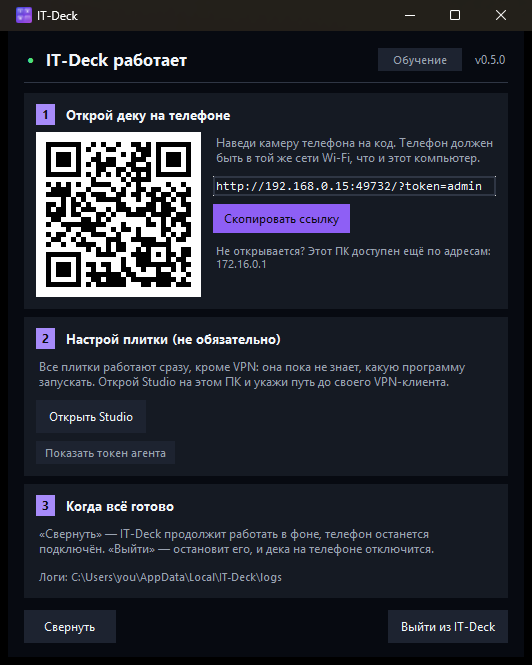
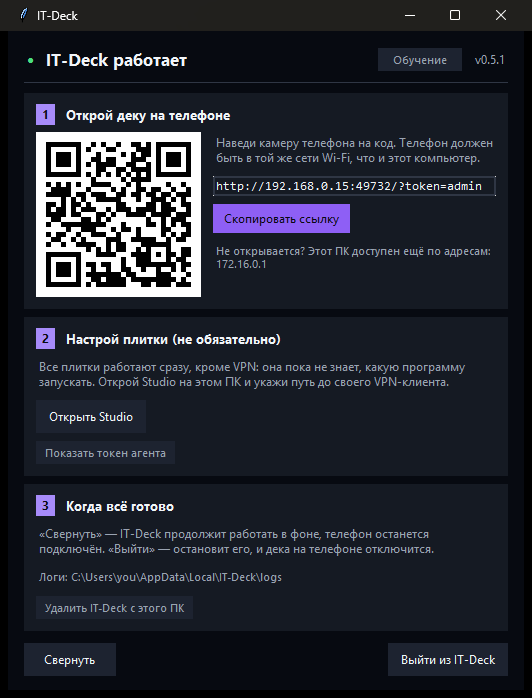
release: v0.5.1 -- tile state survives redraws; README brought up to date
- README (EN/RU): status and exe size, Close Agent's new way back, Studio's
  installed-programs picker and Where control, first-run tour, two new
  troubleshooting rows, tests in the docs table.
- Screenshots: Studio with the quick-launch bar, the window with Tutorial
  and the remove button.
- Tech reference: CI now runs tests; tech-debt item 10 narrowed.

diff --git a/standalone/launcher.py b/standalone/launcher.py
@@ -34,7 +34,7 @@ REPO_ROOT = Path(__file__).resolve().parent.parent
 # it was -- no version in the UI, nothing to compare against for an
 # update check, and nothing to put in a bug report. Bump it in the same commit
 # as the tag, and keep it equal to the tag minus the leading "v".
-ITDECK_VERSION = "0.5.0"
+ITDECK_VERSION = "0.5.1"
 
 # Where an installed copy looks to find out it is out of date, and where it
 # sends the user when it is. An install has no other way to learn this: the

diff --git a/README.ru.md b/README.ru.md
@@ -32,7 +32,8 @@ Python на этой машине.
 
 1. **Скачай `ITDeck.exe`** из
    [последнего релиза](https://github.com/Itegin/it-deck/releases/latest) и
-   запусти. Откроется это окно:
+   запусти. В первый раз короткое обучение проведёт по настройке, а дальше
+   остаётся это окно:
 
    <img src="docs/screenshots/window.png" alt="Окно IT-Deck: шаг 1 — QR-код и ссылка для телефона, шаг 2 открывает Studio, шаг 3 объясняет «Свернуть» и «Выйти» и предлагает удалить IT-Deck с ПК" width="518">
 
@@ -72,7 +73,7 @@ standalone\build.ps1
 
 На машине, которая **собирает**, нужен Python 3.7–3.12 (`comtypes` для
 управления звуком не поддерживает 3.13/3.14). Результат —
-`standalone\dist\ITDeck.exe`, ~26 МБ, которому для запуска не нужно уже
+`standalone\dist\ITDeck.exe`, ~29 МБ, которому для запуска не нужно уже
 ничего.
 
 </details>
@@ -95,12 +96,12 @@ Stop** для зависшего процесса.
 | **Audio Switch** | Переключает два устройства вывода и называет текущее |
 | **Screenshot** | Снимает главный монитор в буфер обмена **ПК** |
 | **VPN** | Запускает VPN-клиент, подсвечена, пока он работает — **сначала нужен путь** |
-| **Close Agent** | Останавливает агент; чтобы вернуть, выйди из IT-Deck и запусти заново |
+| **Close Agent** | Останавливает агент; вернуть — кнопкой **«Запустить агент»** в окне IT-Deck |
 
-В Studio доступны ещё две: **«Часы и погода»** (собственные часы и дата
+В Studio есть и другие: **«Часы и погода»** (собственные часы и дата
 телефона плюс погода для выбранного города — Open-Meteo, без API-ключа) и
 **«Программа вкл/выкл»**, которая запускает программу или закрывает её, если
-та уже работает.
+та уже работает, плюс плитки быстрого запуска ниже.
 
 **Быстрый запуск.** **«Открыть сайт»** открывает любой адрес в браузере ПК
 (готовые пресеты: Telegram Web, Discord, YouTube, ChatGPT и другие), а
@@ -124,7 +125,10 @@ Stop** для зависшего процесса.
 `/studio.html` на ПК — кнопка **«Открыть Studio»** в окне. Слева живой
 предпросмотр деки, справа редактор: что делает плитка, выбираешь карточками, а
 не набором имён команд и JSON; устройства звука подставляются из списка,
-который сообщает агент; **компактная раскладка** убирает дыры в сетке. Язык —
+который сообщает агент; программы — через **«Выбрать из установленных
+программ»** (меню «Пуск» и приложения Microsoft Store); **«Где»** ставит кнопку
+в сетку или в панель быстрого запуска; **компактная раскладка** убирает дыры
+в сетке. Язык —
 английский или русский, по языку браузера. С телефона каталог не меняется.
 **«Гайд»** в верхней панели — короткая инструкция с картинками; в первый раз
 она открывается сама.
@@ -187,7 +191,8 @@ VPN-клиента»**. Вставь полный путь до `.exe` и наж
 | Телефон просит токен | Сохранённый токен больше не подходит. Открой один раз свежую ссылку с `?token=…` |
 | IT-Deck пишет, что порт уже занят | Уже запущена другая копия. Закрой её кнопкой «Выйти» или заверши `ITDeck.exe` в диспетчере задач |
 | Плитка VPN ничего не делает | Скорее всего, у неё ещё нет пути (см. выше). Если путь есть — проверь, не запускается ли программа от администратора |
-| Плитка, которой нужен ПК, не срабатывает, или дека превратилась в часы | Агент не запущен. Он перезапускается сам; `logs\agent.log` говорит почему, `launcher.log` рядом фиксирует перезапуски |
+| Плитка, которой нужен ПК, не срабатывает, или дека превратилась в часы | Агент не запущен. После сбоя он перезапускается сам; после **Close Agent** нажми **«Запустить агент»** в окне. `logs\agent.log` говорит почему, `launcher.log` рядом фиксирует перезапуски |
+| Изменение не видно на телефоне | Потяни страницу вниз, чтобы обновить, или закрой и снова открой иконку |
 | Вообще ничего не стартует | `%LOCALAPPDATA%\IT-Deck\logs\backend.log` |
 
 ## Документация
@@ -202,4 +207,4 @@ VPN-клиента»**. Вставь полный путь до `.exe` и наж
 
 ## Статус
 
-v0.4.6 — личный проект, активная разработка, API может меняться.
+v0.5.1 — личный проект, активная разработка, API может меняться.

diff --git a/README.md b/README.md
@@ -31,9 +31,10 @@ Python on that machine.
 
 1. **Download `ITDeck.exe`** from the
    [latest release](https://github.com/Itegin/it-deck/releases/latest) and
-   run it. This window opens:
+   run it. The first time, a short tour walks you through setup; after that
+   this window stays open:
 
-   <img src="docs/screenshots/window.png" alt="The IT-Deck window: step 1 is a QR code and link for the phone, step 2 opens Studio, step 3 explains Minimize and Quit and offers to remove IT-Deck from the PC" width="518">
+   <img src="docs/screenshots/window.png" alt="The IT-Deck window: step 1 is a QR code and link for the phone, step 2 opens Studio, step 3 explains Minimize and Quit and offers to remove IT-Deck from the PC; Tutorial replays the first-run tour" width="518">
 
 2. **Point your phone's camera at the QR code**, on the same Wi-Fi. That is
    the only required step — the token is in the link, and the phone keeps it.
@@ -71,7 +72,7 @@ standalone\build.ps1
 
 Needs **Python 3.7–3.12** on the machine that *builds* it (`comtypes`, used
 for audio control, has no 3.13/3.14 support). The result is
-`standalone\dist\ITDeck.exe`, ~26 MB, which needs nothing installed to run.
+`standalone\dist\ITDeck.exe`, ~29 MB, which needs nothing installed to run.
 
 </details>
 
@@ -93,11 +94,12 @@ A fresh install seeds eight, all wired to something real:
 | **Audio Switch** | Swaps between two output devices, naming the current one |
 | **Screenshot** | Captures the primary monitor to the **PC's** clipboard |
 | **VPN** | Launches your VPN client, lit while it runs — **needs a path first** |
-| **Close Agent** | Stops the agent; quit and relaunch IT-Deck to bring it back |
+| **Close Agent** | Stops the agent; **Start the agent** in the IT-Deck window brings it back |
 
-Studio can add two more: **Clock & weather** (the phone's own time and date
+Studio adds more: **Clock & weather** (the phone's own time and date
 plus the weather for a city you pick — Open-Meteo, no API key) and **Program
-on/off**, which starts a program or closes it if it is already running.
+on/off**, which starts a program or closes it if it is already running, plus
+the quick-launch tiles below.
 
 **Quick launch.** **Open a website** opens any address in the PC's browser
 (one-tap presets for Telegram Web, Discord, YouTube, ChatGPT and more), and
@@ -109,8 +111,7 @@ symbol, a logo, a few letters or the site's own icon.
 When the PC end goes away — the agent closed, or IT-Deck itself — every tile
 becomes a button that can't do anything, so the clock widget takes the whole
 screen as a seven-segment clock and keeps showing the time until the PC comes
-back. The deck restores
-itself; there is nothing to switch.
+back. The deck restores itself; there is nothing to switch.
 
 The look is two settings: the **theme** (Flat, Pastel, Glossy, Liquid Glass),
 cycled from the pill in the deck's header, and the **background** (auto, light
@@ -121,7 +122,9 @@ or dark), set in Studio. Both sync to every connected phone.
 `/studio.html` on the PC — the **Open Studio** button in the window. A live
 preview of the deck on the left, an editor on the right: you pick what a tile
 does from cards instead of typing command names and JSON, audio devices come
-from the list the agent reports, and **Compact layout** closes the gaps.
+from the list the agent reports, programs come from **Choose from installed
+programs** (Start Menu and Microsoft Store apps), **Where** puts a button in
+the grid or the quick-launch bar, and **Compact layout** closes the gaps.
 English or Russian, following the browser. The phone never edits the catalog.
 **Guide** in the top bar is a short illustrated how-to, and it opens by itself
 the first time.
@@ -183,7 +186,8 @@ that one on the phone.
 | The phone asks for a token | Its stored one no longer matches. Open the freshly printed `?token=…` link once |
 | IT-Deck says the port is already in use | Another copy is already running. Quit it from its window, or end `ITDeck.exe` in Task Manager |
 | The VPN tile does nothing | It most likely has no path yet (see above). If it has one, check whether that program runs as administrator |
-| A tile that needs the PC does nothing, or the deck turns into a clock | The agent is down. It restarts itself; `logs\agent.log` says why, `launcher.log` records the restarts |
+| A tile that needs the PC does nothing, or the deck turns into a clock | The agent is down. After a crash it restarts itself; after **Close Agent**, press **Start the agent** in the window. `logs\agent.log` says why, `launcher.log` records the restarts |
+| A change doesn't show on the phone | Pull down to reload, or close and reopen the Home Screen icon |
 | Nothing starts at all | `%LOCALAPPDATA%\IT-Deck\logs\backend.log` |
 
 ## Documentation
@@ -193,9 +197,10 @@ that one on the phone.
 | this file | What IT-Deck is, how to install and run it |
 | [`CHANGELOG.md`](CHANGELOG.md) | What changed in each release |
 | [`docs/IT-Deck_Tech_Reference.md`](docs/IT-Deck_Tech_Reference.md) | The full reference — architecture, schema, API, protocol, tiles, themes, the agent, **standalone mode (§10)** and known tech debt |
+| [`tests/`](tests) | Backend API, agent and frontend tests — run on every push by GitHub Actions |
 | [`docs/legacy-server.md`](docs/legacy-server.md) | The pre-v0.3.0 setup: backend in Docker on a separate server, plus the Ansible playbook |
 | [`CLAUDE.md`](CLAUDE.md) | Working notes for Claude Code sessions: the rules and the things that are easy to break |
 
 ## Status
 
-v0.4.6 — personal project, active development, API may change.
+v0.5.1 — personal project, active development, API may change.

diff --git a/docs/IT-Deck_Tech_Reference.md b/docs/IT-Deck_Tech_Reference.md
@@ -1236,9 +1236,14 @@ Three separate statements, all true:
   deliberately decoupled from the GHCR/tag pipeline above — `deploy.sh`
   builds locally rather than waiting on or pulling a CI-built image (see
   §9's deploy.sh section).
-- **Tests in CI: none.** Nothing is run against the code at any point. The only
-  test-shaped file in the repo is `agents/windows/test_mic.py`, a manual probe.
-  `check.sh` and `deploy.sh`'s md5 step are the entire verification story.
+- **Tests in CI: since v0.5.0.** `.github/workflows/ci.yml` runs on every push
+  to `main` and every pull request, on `windows-latest` (the agent's modules
+  import pywin32/pycaw): `pytest tests` -- the backend API through
+  `TestClient` (placement and the quick-launch bar, auth on the agent queries,
+  cache and MIME headers) and the agent's pure checks (`validate_url`, the LAN
+  guard) -- then `node --check` on every frontend module and
+  `node --test tests/frontend.test.mjs` (URL cleaning, presets vs logos, EN/RU
+  key symmetry). `agents/windows/test_mic.py` is still a manual probe.
 
 > **On "Stage 11".** The repo attests to Stage 1 (`ansible/site.yml`'s header:
 > the manual base setup the playbook reproduces), Stage 9 (commit `05bbff1` —
@@ -2048,7 +2053,8 @@ Ordered roughly by how likely each is to bite.
     old code with no error until a handler bug that "should have been fixed"
     surfaces live. The restart is a GUI action on the Windows PC that Claude
     Code cannot perform.
-10. **No CD and no tests in CI** — see §9.
+10. **No CD** — see §9. Tests do run in CI since v0.5.0, but only the pure and
+    API layers: nothing exercises audio, launching, or the Tk window.
 11. **The deploy-ordering hazard** (frontend before backend ⇒ a new theme 422s
     and silently reverts) is structural, not a bug to fix: it follows directly
     from the image/bind-mount split. See §7.

diff --git a/CHANGELOG.md b/CHANGELOG.md
@@ -7,7 +7,7 @@ standalone mode is §10, tech debt is §12.
 
 ---
 
-## Unreleased
+## v0.5.1 — 2026-09-24
 
 ### Fixed
 
@@ -19,7 +19,9 @@ standalone mode is §10, tech debt is §12.
 
 ### Docs
 
-- New README screenshots: the quick-launch bar, v0.5.0's Studio and window.
+- New README screenshots: the quick-launch bar in every theme, Studio with the
+  bar, and the current window. README facts brought up to date (Close Agent,
+  exe size, Studio's new controls, troubleshooting, status).
 
 ---
 
